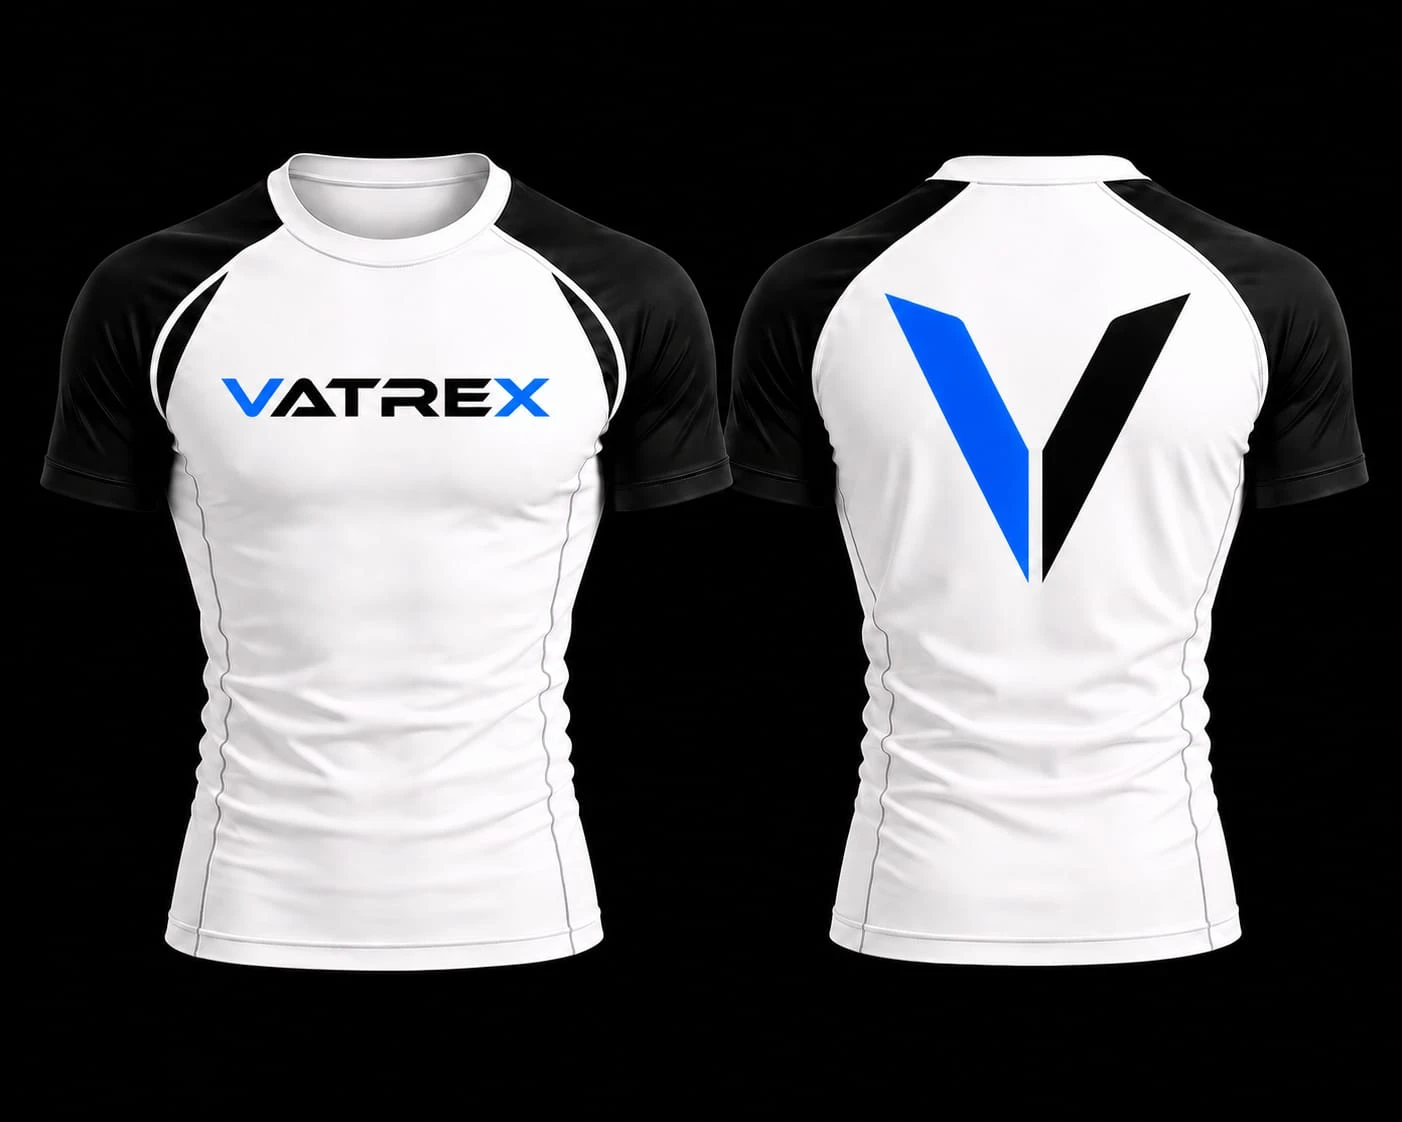
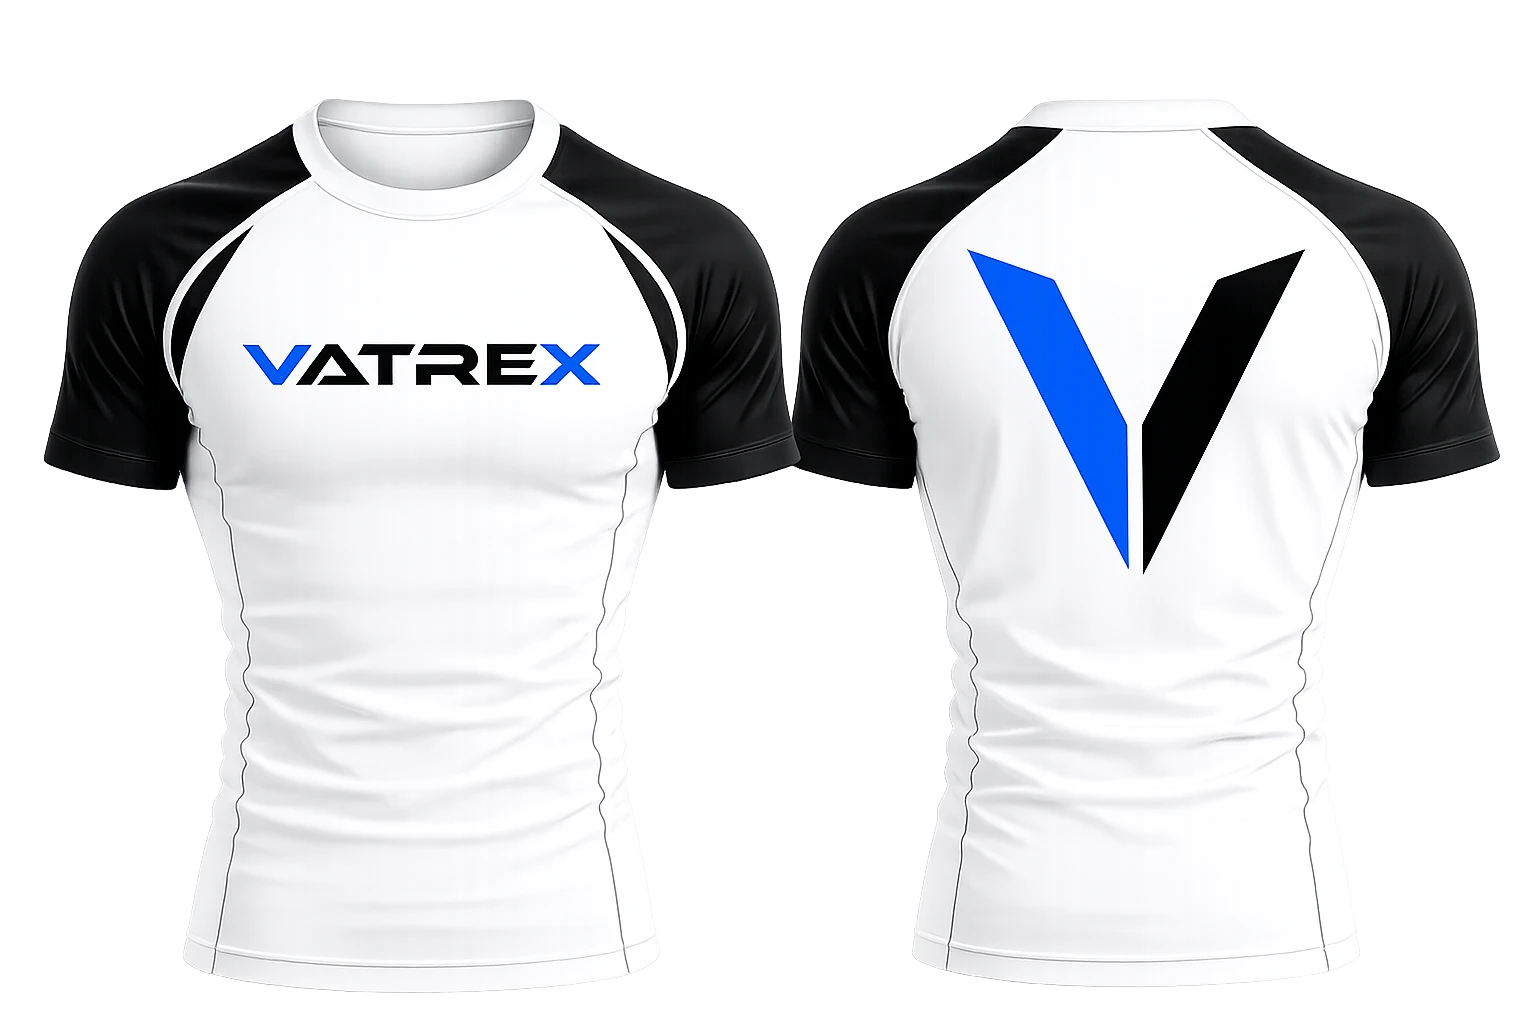
changed sizes

diff --git a/css/products.css b/css/products.css
@@ -308,7 +308,7 @@ body {
         .producttext {
             width:300px;
             transform:translatey(-150px);
-            margin-top:240px;
+            margin-top:60vw;
         }
     
         .product-container {
@@ -352,7 +352,7 @@ body {
     }
     
     .buttonsbox {
-        transform:translatey(-14vw);
+        transform:translatey(-10vw);
         margin:auto ;
         position: static;
        width:90vw;
@@ -384,6 +384,7 @@ body {
     .productss.slide{
             height:auto;
             display:flex;
+            margin-top:11vw;
         }
     .productsss.slide{
      mask-image: radial-gradient(ellipse at center,  #000000 40%, #ff000000 92% );

diff --git a/css/style.css b/css/style.css
@@ -158,6 +158,7 @@ html {
                overflow-x: hidden;
       }
       .product1 img{
+          margin-top:4.5vw;
           width:28vw;  
           height:auto;
     }
@@ -304,9 +305,9 @@ height:48vw;
          
        }
     .product1 img{
-     width:45vw;
+     width:43vw;
      height:auto;
-    margin-top:8vw;
+    margin-top:15vw;
 
     }
   

diff --git a/javascript/review.js b/javascript/review.js
@@ -42,7 +42,7 @@ const productImages = {
     "vatrex-ls": "../images/VLS.webp",
     "vatrex-HOODIE": "../images/VH.webp",
     "vatrex-v-LASTLY-pants": "../images/VP.webp",
-    "vatrex-mixed-shoulderss": "../images/Vshirtblack.webp",
+    "vatrex-mixed-shoulderss": "../images/VATREXmix.webp",
     "vatrex-shadow-pants": "../images/redpants.webp"
 };
 
